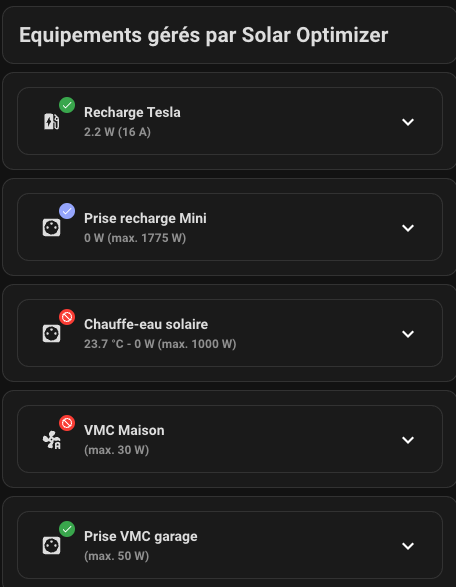
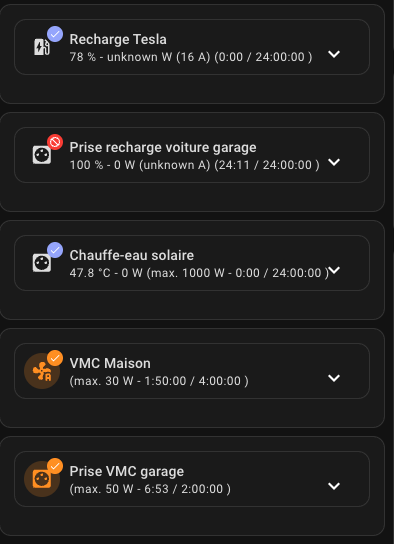
Release

diff --git a/README-fr.md b/README-fr.md
@@ -24,6 +24,8 @@
 
 
 > ![Nouveau](https://github.com/jmcollin78/solar_optimizer/blob/main/images/new-icon.png?raw=true) _*Nouveautés*_
+> * **release 2.1.0** :
+>    - ajout d'une durée minimale d'allumage en heure creuses. Permet de gérer les équipements qui doivent avoir un minimum d'allumage par jour comme les chauffes-eau ou les chargeurs (voitures, batteries, ……). Si l'ensoleillement n'a pas durée d'atteindre la durée requise, alors l'équipement s'allumera pendant les heures creuses. Vous pouvez en plus définir à quelle heure les compteurs d'allumage sont remis à zéro ce qui permet de profiter des toutes les heures creuses
 > * **release 2.0.0** :
 >    - ajout d'un appareil (device) par équipement piloté pour regrouper les entités,
 >    - ajout d'un compteur de temps d'allumage pour chaque appareil. Lorsque le switch commandé passe à 'Off', le compteur de temps est incrémenté du temps passé à 'On', en secondes. Ce compteur est remis à zéro tous les jours à minuit.
@@ -70,7 +72,9 @@ Si une batterie est spécifiée lors du paramétrage de l'intégration et si le 
 
 Un temps d'utilisation maximal journalier est paramétrable en facultatif. Si il est valorisé et si la durée d'utilisation de l'équipement est dépasée, alors l'équipement ne sera pas utilisable par l'algorithme et laisse donc de la puissance pour les autres équipements.
 
-Ces 4 règles permettent à l'algorithme de ne commander que ce qui est réellement utile à un instant t. Ces règles sont ré-évaluées à chaque cycle.
+Un temps d'utilisation minimal journalier est aussi paramétrable en facultatif. Ce paramètre permet d'assurer que l'équipement sera allumé pendant une certaine durée minimale. Vous spécifiez à quelle heure commence les heures creuses, (`offpeak_time`) et la durée minimale en minutes (`min_on_time_per_day_min`). Si à l'heure indiquée par `offpeak_time`, la durée minimale d'activation n'a pas été atteinte, alors l'équipement est activé jusqu'au changement de jour (paramètrable dans l'intégration et 05:00 par défaut) ou jusqu'à ce que le maximum d'utilisation soit atteint (`max_on_time_per_day_min`). Vous assurez ainsi que le chauffe-eau ou la voiture sera chargée le lendemain matin même si la production solaire n'a pas permise de recharger l'appareil. A vous d'inventer les usages de cette fonction.
+
+Ces 5 règles permettent à l'algorithme de ne commander que ce qui est réellement utile à un instant t. Ces règles sont ré-évaluées à chaque cycle.
 
 # Comment on l'installe ?
 ## HACS installation (recommendé)
@@ -92,8 +96,10 @@ Vous devez spécifier :
 1. le sensor qui donne la consommation nette instantanée du logement (elle doit être négative si la production dépasse la consommation). Ce chiffre est indiqué en Watt,
 2. le sensor qui donne la production photovoltaïque instantanée en Watt aussi,
 3. un sensor ou input_number qui donne le cout du kwh importée,
-3. un sensor ou input_number qui donne le prix du kwh exortée (dépend de votre contrat),
-3. un sensor ou input_number qui donne la taxe applicable sur les kwh exortée (dépend de votre contrat)
+4. un sensor ou input_number qui donne le prix du kwh exortée (dépend de votre contrat),
+5. un sensor ou input_number qui donne la taxe applicable sur les kwh exortée (dépend de votre contrat)
+6. l'heure de début de journée. A cette heure les compteurs d'uitlisation des équipements sont remis à zéro. La valeur par défaut est 05:00. Elle doit être avant la première production et le plus tard possible pour les activations en heures creuses. Cf. ci-dessus.
+
 
 Ces 5 informations sont nécessaires à l'algorithme pour fonctionner, elles sont donc toutes obligatoires. Le fait que ce soit des sensor ou input_number permet d'avoir des valeurs qui sont réévaluées à chaque cycle. En conséquence le passage en heure creuse peut modifier le calcul et donc les états des équipements puisque l'import devient moins cher. Donc tout est dynamique et recalculé à chaque cycle.
 
@@ -121,6 +127,8 @@ devices:
     deactivation_service: "switch/turn_off"
     battery_soc_threshold: <l'état de charge minimal pour utiliser cet équipement>
     max_on_time_per_day_min: <la durée maximamle d'allumage par jour en minutes>
+    offpeak_time: <l'heure de début des heures creuses>
+    min_on_day_per_day_min: <la durée minimale d'allumage par jour en minutes>
 ```
 
 Note: les paramètres sous `algorithm` ne doivent pas être touchés sauf si vous savez exactement ce que vous faites.
@@ -140,6 +148,8 @@ Sous `devices` il faut déclarer tous les équipements qui seront commandés par
 | `deactivation_service`  | uniquement si action_mode="service_call" | le service a appeler pour désactiver l'équipement sous la forme "domain/service"                | "switch/turn_off"                                       | la désactivation déclenchera le service "switch/turn_off" sur l'entité "entity_id"                                                                                                    |
 | `battery_soc_threshold`  | tous | le pourcentage minimal de charge de la batterie pour que l'équipement soit utilisable            | 30                                       |                                                                                                     |
 | `max_on_time_per_day_min`  | tous | le nombre de minutes maximal en position allumé pour cet équipement. Au delà, l'équipement n'est plus utilisable par l'algorithme           | 10                                       |  L'équipement est sera allumé au maximum 10 minutes par jour                                                                                                    |
+| `offpeak_time`  | tous | L'heure de début des heures creuses au format hh:mm       | 22:00                                       |  L'équipement pourra être allumé à 22h00 si la production de la journeé n'a pas été suffisante                                                                                                   |
+| `min_on_time_per_day_min`  | tous | le nombre de minutes minimale en position allumé pour cet équipement. Si lors du démarrage des heures creuses, ce minimum n'est pas atteint alors l'équipement sera allumé à concurrence du début de journée ou du `max_on_time_per_day_min`           | 5                                       |  L'équipement est sera allumé au minimum 5 minutes par jour                                                                                                    |
 
 Pour les équipements à puissance variable, les attributs suivants doivent être valorisés :
 
@@ -175,6 +185,10 @@ devices:
     battery_soc_threshold: 10
     # Une heure par jour maximum
     max_on_time_per_day_min: 60
+    # 1/2h par jour minimum ...
+    min_on_time_per_day_min: 30
+    # ... à partir de 22:30
+    offpeak_time: "22:30"
 
   - name: "Recharge Tesla"
     entity_id: "switch.testla_charger"
@@ -204,6 +218,10 @@ devices:
     convert_power_divide_factor: 660
     # On ne démarre pas une charge si la batterie de l'installation solaire n'est pas chargée à au moins 50%
     battery_soc_threshold: 50
+    # 4h par jour minimum ...
+    min_on_time_per_day_min: 240
+    # ... à partir de 23:00
+    offpeak_time: "22:00"
 ...
 ```
 Tout changement dans la configuration nécessite un arrêt / relance de l'intégration (ou de Home Assistant) pour être pris en compte.

diff --git a/README.md b/README.md
@@ -24,7 +24,8 @@
 
 
 >![New](https://github.com/jmcollin78/solar_optimizer/blob/main/images/new-icon.png?raw=true) _*News*_
-> * **release 2.0.0** :
+> * **release 2.1.0** :
+> - added a minimum duration of ignition during off-peak hours. Allows you to manage equipment that must have a minimum of ignition per day such as water heaters or chargers (cars, battery, ...). If the sunshine has not reached the required duration, then the equipment will turn on during off-peak hours. You can also define at what time the ignition counters are reset to zero, which allows you to take advantage of all off-peak hours> * **release 2.0.0** :
 > - added a device per controlled equipment to group the entities,
 > - added an ignition time counter for each device. When the controlled switch goes to 'Off', the time counter is incremented by the time spent 'On', in seconds. This counter is reset to zero every day at midnight.
 > - added a maximum time to 'On' in the configuration (in minutes). When this duration is exceeded, the equipment is no longer usable by the algorithm (is_usable = off) until the next reset. This offers the possibility of not exceeding a maximum ignition time per day, even when solar power is available.
@@ -70,7 +71,9 @@ If a battery is specified when configuring the integration and if the threshold 
 
 A maximum daily usage time is optionally configurable. If it is valued and if the duration of use of the equipment is exceeded, then the equipment will not be usable by the algorithm and therefore leaves power for other equipment.
 
-These 4 rules allow the algorithm to only order what is really useful at a time t. These rules are re-evaluated at each cycle.
+A minimum daily usage time is also optionally configurable. This parameter ensures that the equipment will be on for a certain minimum duration. You specify at what time the off-peak hours start (`offpeak_time`) and the minimum duration in minutes (`min_on_time_per_day_min`). If at the time indicated by `offpeak_time`, the minimum activation duration has not been reached, then the equipment is activated until the change of day (configurable in the integration and 05:00 by default) or until the maximum usage is reached (`max_on_time_per_day_min`). This ensures that the water heater or the car will be charged the next morning even if the solar production has not allowed the device to be recharged. It is up to you to invent the uses of this function.
+
+These 5 rules allow the algorithm to only order what is really useful at a time t. These rules are re-evaluated at each cycle.
 
 # How do we install it?
 ## HACS installation (recommended)
@@ -92,8 +95,9 @@ You must specify:
 1. the sensor which gives the instantaneous net consumption of the dwelling (it must be negative if production exceeds consumption). This figure is indicated in Watt,
 2. the sensor which gives the instantaneous photovoltaic production in Watt too,
 3. a sensor or input_number which gives the cost of the imported kwh,
-3. a sensor or input_number which gives the price of the exported kwh (depends on your contract),
-3. a sensor or input_number which gives the applicable tax on the exported kwh (depends on your contract)
+4. a sensor or input_number which gives the price of the exported kwh (depends on your contract),
+5. a sensor or input_number which gives the applicable tax on the exported kwh (depends on your contract)
+6. the start time of the day. At this time the equipment usage counters are reset to zero. The default value is 05:00. It must be before the first production and as late as possible for activations during off-peak hours. See above.
 
 These 5 pieces of information are necessary for the algorithm to work, so they are all mandatory. The fact that they are sensors or input_number allows to have values that are re-evaluated at each cycle. Consequently, switching to off-peak hours can modify the calculation and therefore the states of the equipment since the import becomes less expensive. So everything is dynamic and recalculated at each cycle.
 
@@ -121,6 +125,8 @@ devices:
      deactivation_service: "<service name>"
      battery_soc_threshold: <the state of charge minimal to use this device>
      max_on_time_per_day_min: <the maximum time on 'on' per day in minutes>
+     offpeak_time: <start time of off-peak hours>
+     min_on_day_per_day_min: <the minimal time on 'on' per day in minutes>
 ```
 
 Note: parameters under `algorithm` should not be touched unless you know exactly what you are doing.
@@ -140,6 +146,8 @@ Under `devices` you must declare all the equipment that will be controlled by So
 | `deactivation_service` | only if action_mode="service_call" | the service to call to deactivate the equipment in the form "domain/service" | "switch/turn_off" | deactivation will trigger the "switch/turn_off" service on the entity "entity_id" |
 | `battery_soc_threshold`  | tous | minimal percentage of charge of the solar battery to enable this device            | 30                                       |                                                                                                     |
 | `max_on_time_per_day_min` | all | the maximum number of minutes in the on position for this equipment. Beyond that, the equipment is no longer usable by the algorithm | 10 | The equipment will be on for a maximum of 10 minutes per day |
+| `offpeak_time` | all | The start time of off-peak hours in hh:mm format | 22:00 | The equipment can be switched on at 22:00 if the production of the day has not been sufficient |
+| `min_on_time_per_day_min` | all | the minimum number of minutes in the on position for this equipment. If at the start of off-peak hours, this minimum is not reached then the equipment will be switched on up to the start of the day or the `max_on_time_per_day_min` | 5 | The equipment will be switched on for a minimum of 5 minutes per day |
 
 For variable power equipment, the following attributes must be valued:
 
@@ -174,7 +182,11 @@ devices:
      # We authorize the pump to start if there is 10% battery in the solar installation
      battery_soc_threshold: 10
      # One hour per day maximum
-    max_on_time_per_day_min: 60
+     max_on_time_per_day_min: 60
+     # 1/2h per day minimum ...
+     min_on_time_per_day_min: 30
+     # ... starting at 22:30
+     offpeak_time: "22:30"
 
    - name: "Tesla Recharge"
      entity_id: "switch.cloucloute_charger"
@@ -204,6 +216,10 @@ devices:
      convert_power_divide_factor: 660
      # We do not start a charge if the battery of the solar installation is not at least 50% charged
      battery_soc_threshold: 50
+     # 4h par day minimum ...
+     min_on_time_per_day_min: 240
+     # ... starting at 23:00
+     offpeak_time: "22:00"
 ...
 ```
 Any change in the configuration requires a stop / restart of the integration (or of Home Assistant) to be taken into account.
